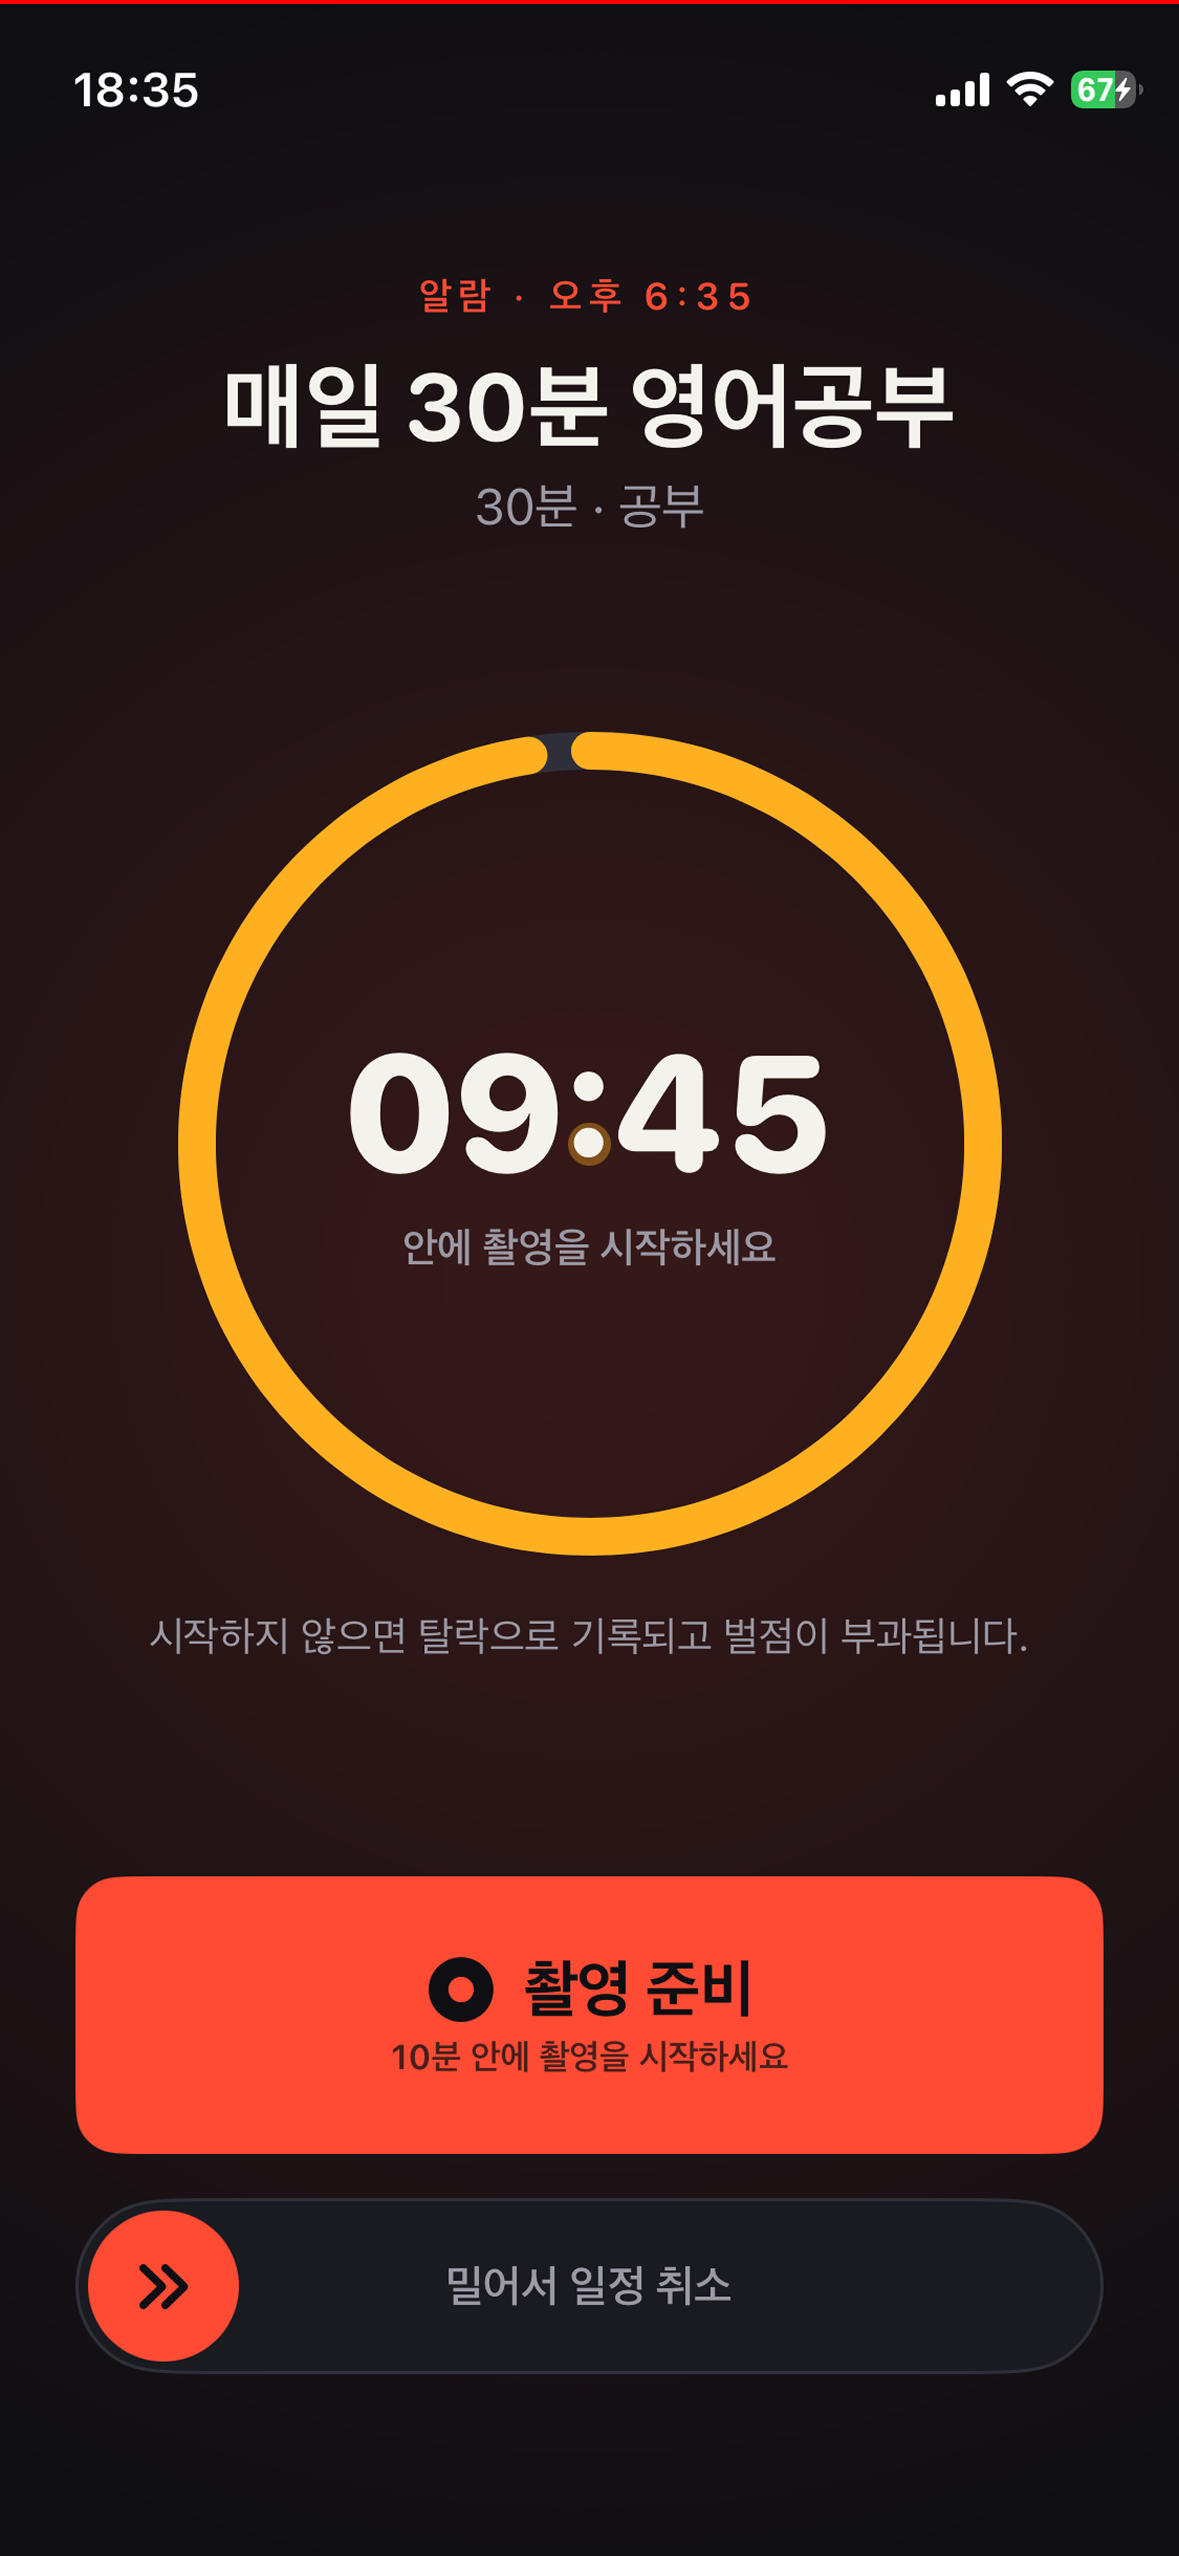
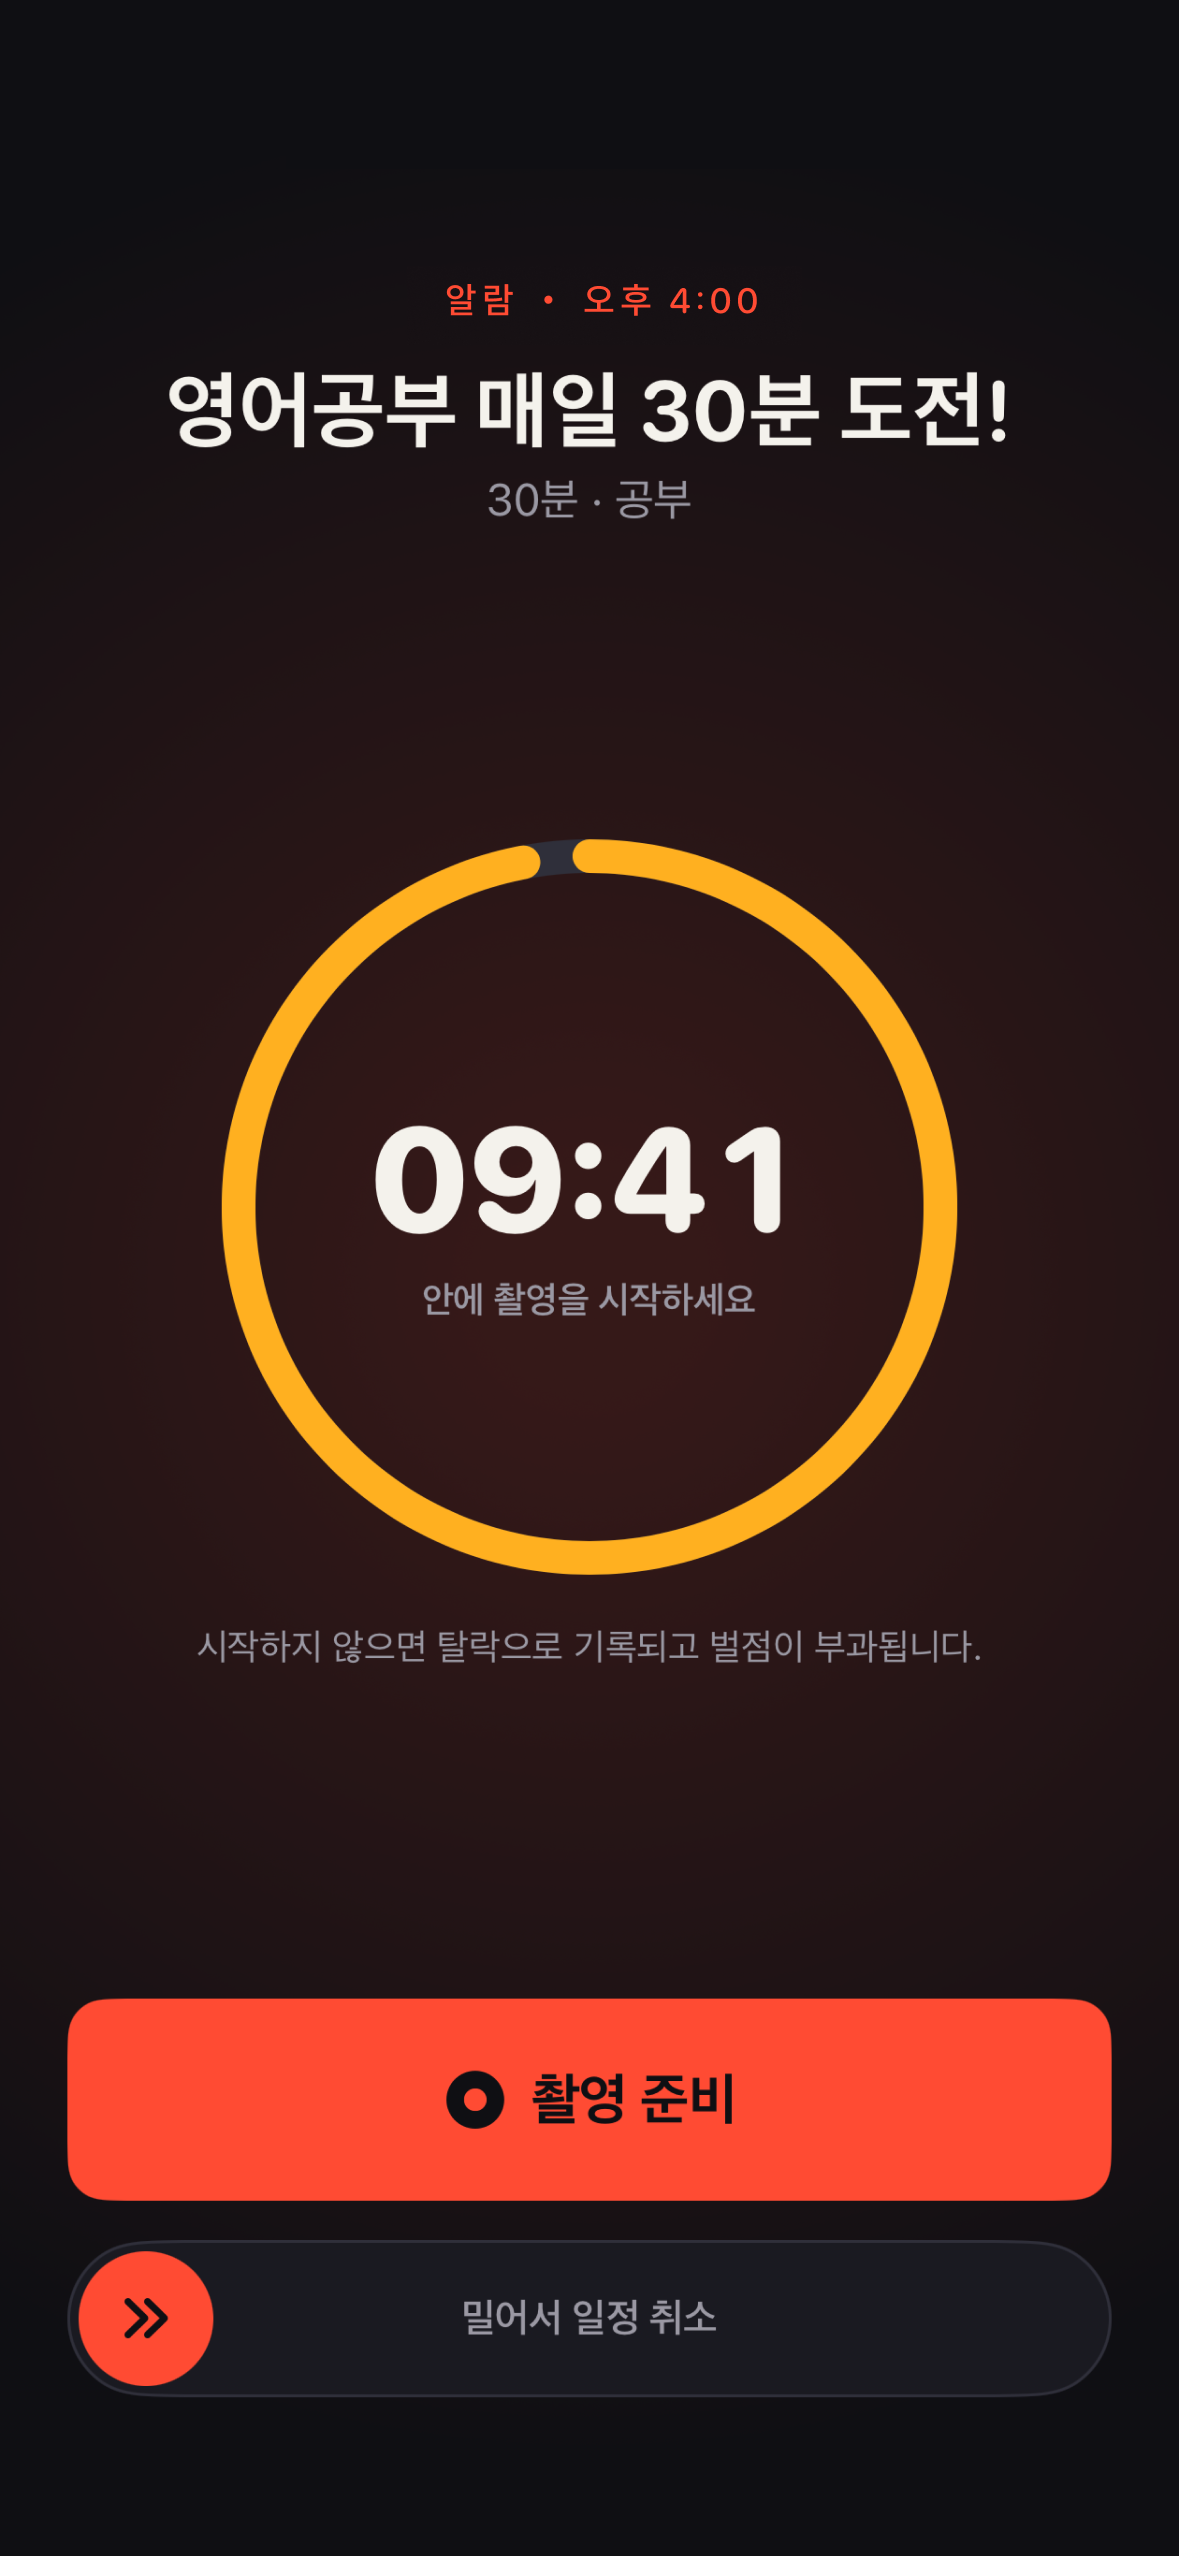
feat: 히어로 목업 이미지를 STEP2 화면으로 교체
- hero_tb.png 내용을 step_02.png(알람 울림·촬영 준비 화면)로 교체
- ASSETS.md 갱신

Claude-Session: https://claude.ai/code/session_01Kv3bknAudcvUvf7Hb78b6v

diff --git a/ASSETS.md b/ASSETS.md
@@ -7,7 +7,7 @@
 
 | 파일명 | 사용 위치 | 담아야 할 내용 |
 |---|---|---|
-| `hero_tb.png` ✅ 적용됨 | `home/Section01Hero.tsx` (PC·태블릿·모바일 공통) | 히어로 — 알람 울림·촬영 준비 화면 (step_03.png와 같은 내용의 별도 파일) |
+| `hero_tb.png` ✅ 적용됨 | `home/Section01Hero.tsx` (PC·태블릿·모바일 공통) | 히어로 — 알람 울림·촬영 준비 화면 (step_02.png와 같은 내용의 별도 파일) |
 | `section_02_alarm.png` | `home/Section02Screentime.tsx` | 아침 알람이 여러 개 울리는 화면 |
 | `tool-1.svg` ✅ 적용됨 | `home/Section04Apps.tsx` | 끄면 끝, 일반 알람 앱 — 알람 끄고 자는 모티 일러스트 |
 | `tool-2.svg` ✅ 적용됨 | `home/Section04Apps.tsx` | 체크만 하면 끝, 투두 앱 — 대충 체크하는 모티 일러스트 |
